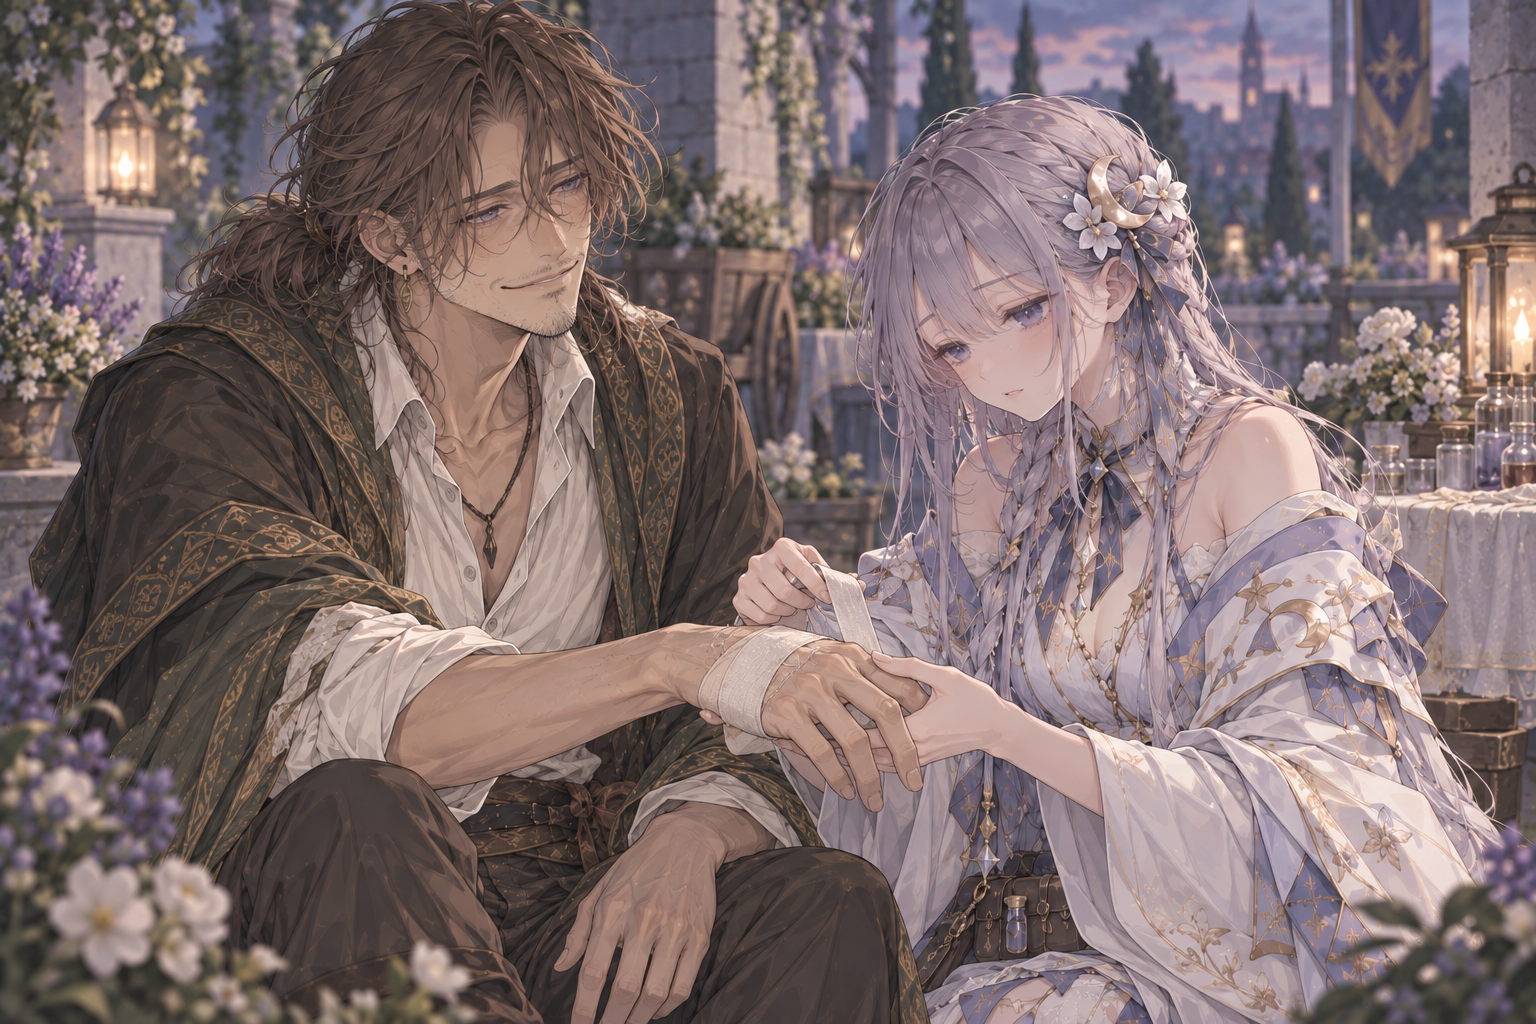
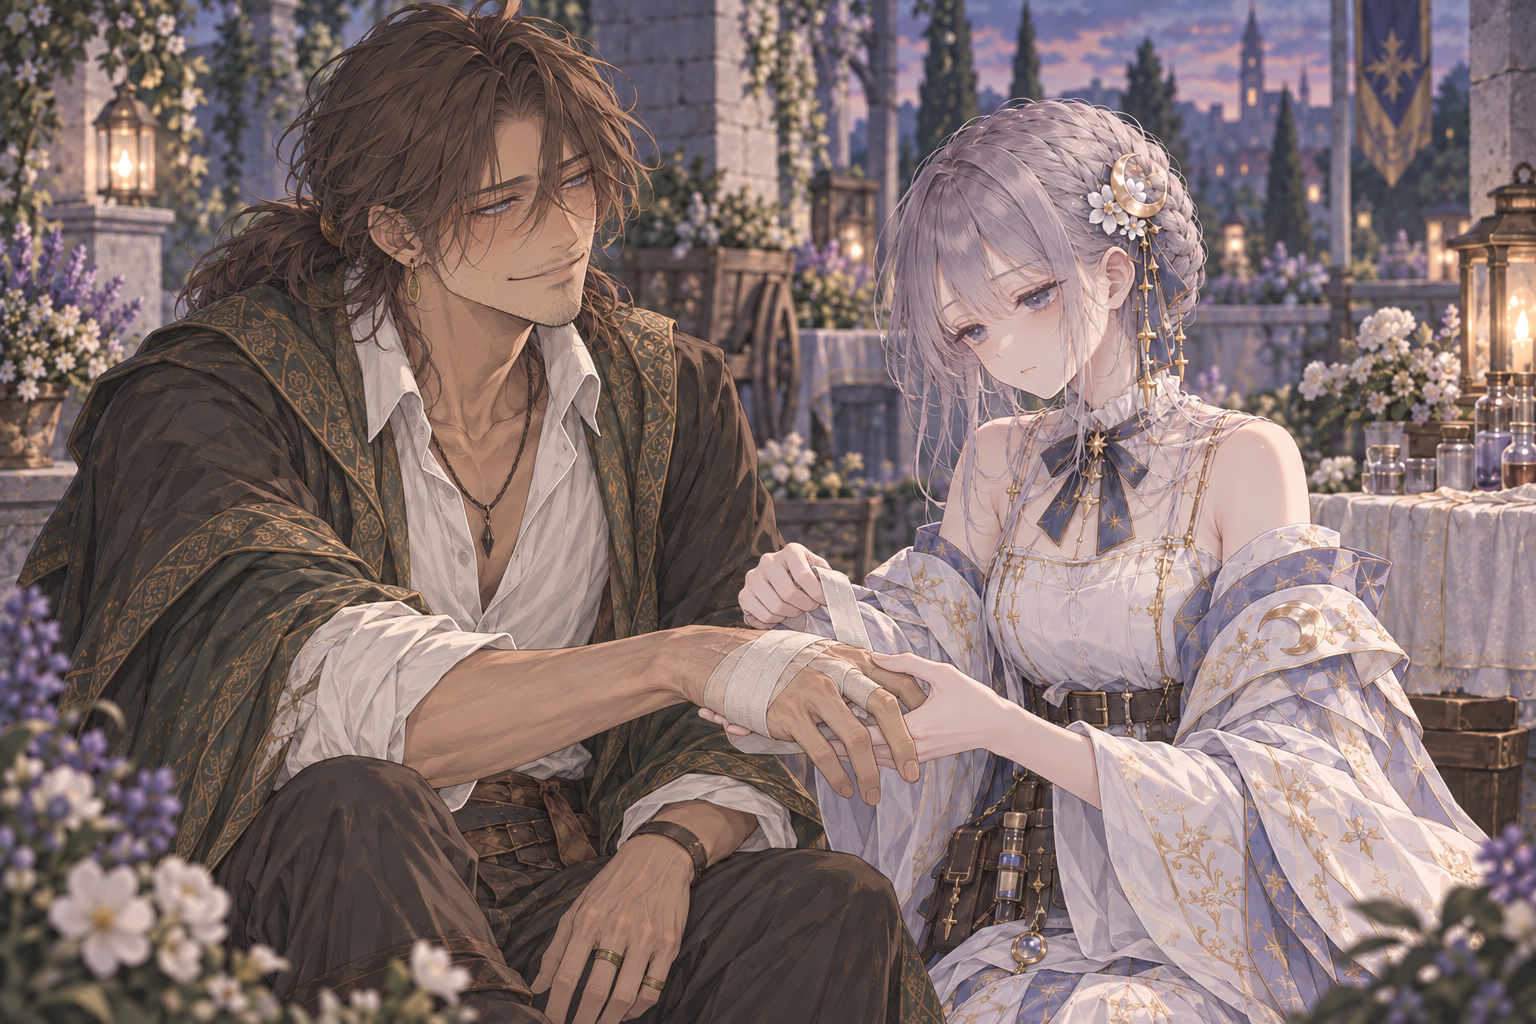
Refresh chapter 3-8 hand treatment still to latest Finn and Mira designs

diff --git a/docs/art/story-art.md b/docs/art/story-art.md
@@ -35,6 +35,8 @@
 
 お茶会の採用版は、設定資料から新規生成した絵にアリアとレオンの顔立ちを合わせたもの。フィンは右手に包帯、左手に指輪をつける。制作ツールは組み込み `image_gen`、モデル識別子は返されていない。
 
+2026-10-05に3-8の手当てを最新設定画へ合わせて更新した。フィンは大きな毛束で簡素にまとめた茶髪と低い位置の結び髪、日焼け・無精髭・垂れ目と気の抜けた笑みを保つ。ミラは薄紫の編み込みのまとめ髪、目元の疲労、軽いローブと治療用ポーチを反映する。右手へ薄く包帯を巻く動作、背景と表示開始位置は維持する。[更新記録](../art-generation/mira-tends-finn-refresh-20261005.json)を参照。
+
 ## 第二章2-8・2-9：薬の配達と三人のお茶
 
 組み込み `image_gen` で各1536×1024の画像を制作。アリア・レオン・ミラのリファレンスシートを外見・衣装の参照に使い、文字なしの一枚絵にした。モデル識別子は返されていない。最終プロンプトは [生成記録](../art-generation/chapter-two-finale-art.json) に保存。

diff --git a/docs/art/story-art-gallery.md b/docs/art/story-art-gallery.md
@@ -68,6 +68,8 @@
 
 ![ミラがフィンの右手に薄い包帯を巻き、フィンが照れたように笑って見守る。](../../public/stories/mira-tends-finn.webp)
 
+`keystone-night-road-departure` の手当ての行から表示。2026-10-05に最新設定画へ合わせ、フィンの簡素な毛束と低い結び髪、ミラのまとめ髪と疲労のにじむ目元を更新した。右手の指を動かせる薄い包帯と、二人の表情・動作を保つ。[更新記録](../art-generation/mira-tends-finn-refresh-20261005.json)を参照。
+
 ### 3-9：四人のお茶
 
 ![塔に灯りが戻った夕方、アリアとレオンが話し、フィンが目を閉じて笑う。傍らでは青白い顔のミラがお茶を注いでいる。](../../public/stories/four-cups-of-tea.webp)

diff --git a/CHANGELOG.md b/CHANGELOG.md
@@ -10,7 +10,7 @@
 
 ## 0.5.x（第五章の開発）
 
-- 0.5.3: キャラ設定画・5人の顔アイコンと第一・第二章スチルを更新する（#243）
+- 0.5.3: キャラ設定画・5人の顔アイコンと会話スチルを更新する（#243）
 
 - 0.5.2: スタート画面の塔の紫の灯りとリンデ周辺の地形を修正する（#238）
 
